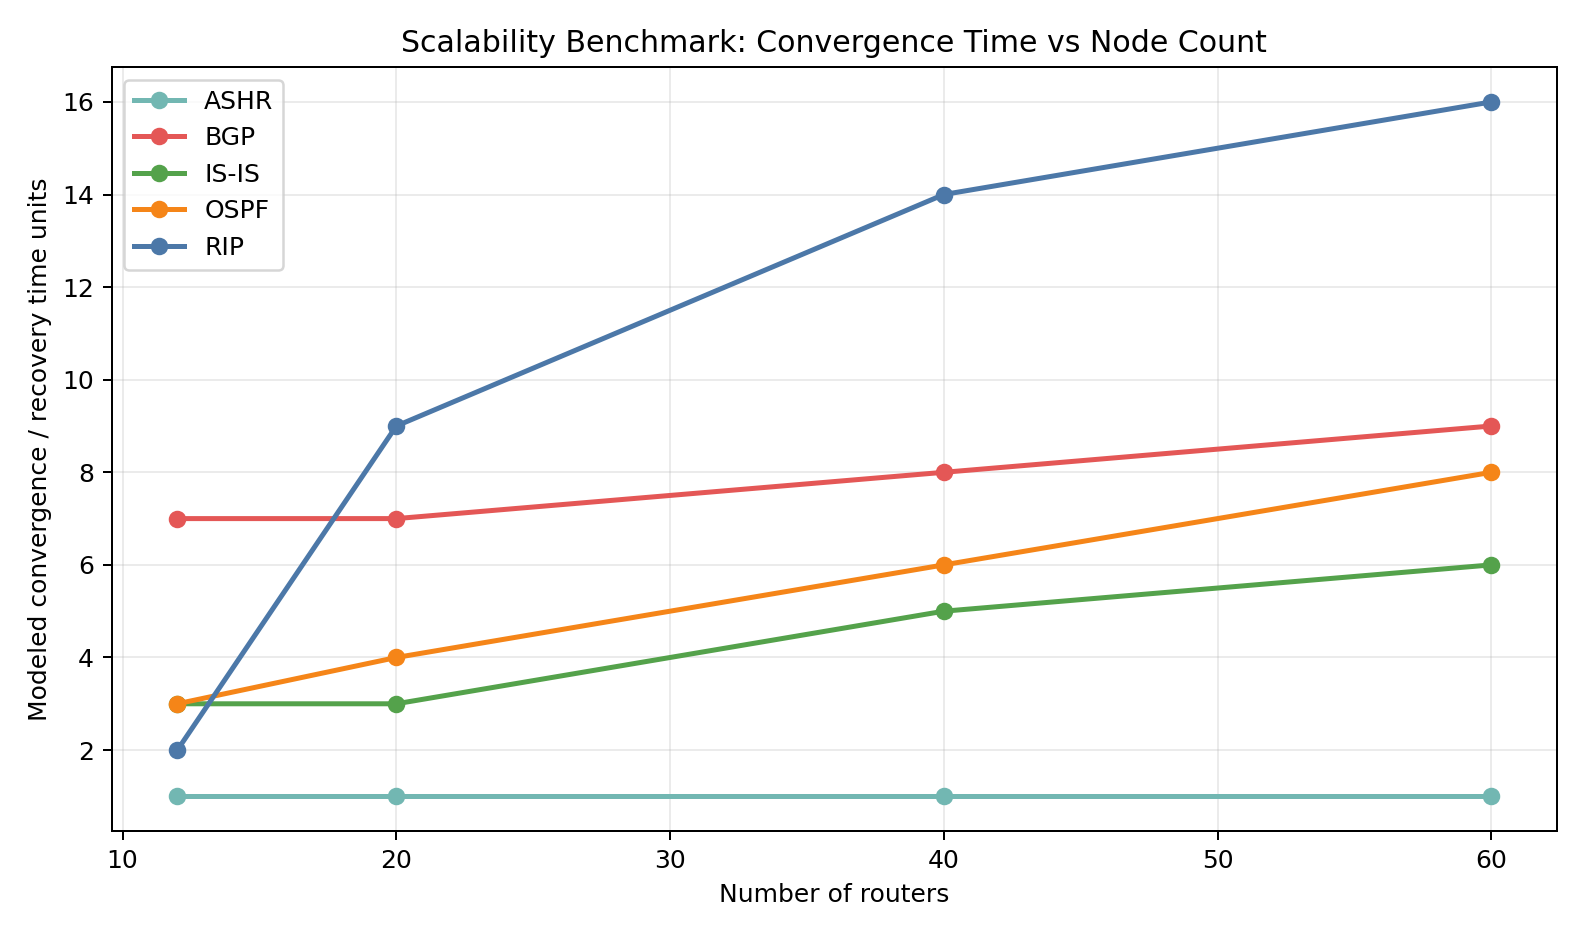
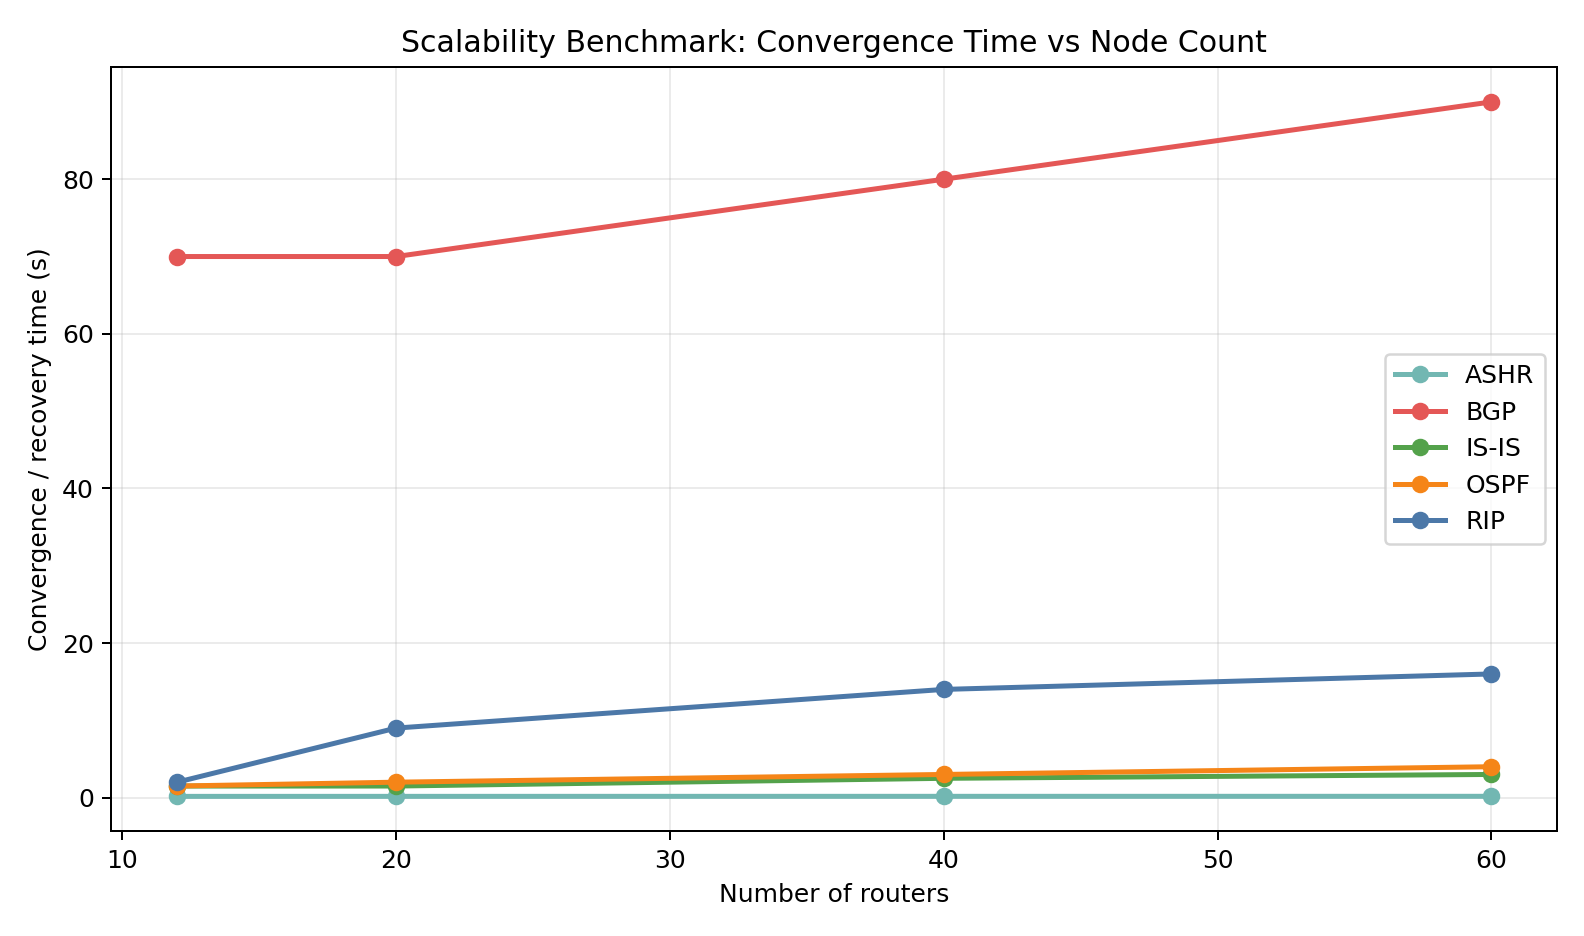
Added per-protocol-seconds-per-unit mapping

diff --git a/Simulations/src/simulation.py b/Simulations/src/simulation.py
@@ -22,6 +22,16 @@ from .utils import ensure_dir, path_to_string, set_deterministic_seed, write_lin
 PACKETS_PER_TIME_UNIT = 100
 SCALABILITY_NODE_COUNTS = [12, 20, 40, 60]
 SCALE_FACTOR = 0.5  # scale control/convergence/packet-loss metrics by this factor
+# Model time: one simulation "time unit" corresponds to this many seconds.
+TIME_PER_UNIT_S = 0.5
+# Per-protocol seconds-per-modeled-unit mapping (override default TIME_PER_UNIT_S per protocol)
+PROTOCOL_TIME_PER_UNIT_S = {
+    "ASHR": 0.15,
+    "RIP": 1.0,
+    "OSPF": 0.5,
+    "IS-IS": 0.5,
+    "BGP": 10.0,
+}
 
 
 def _summary_row(scenario: str, protocol: str, metric: str, value: object, details: str = "") -> dict[str, object]:
@@ -442,17 +452,21 @@ def run_scalability_benchmark(node_counts: list[int] | None = None) -> pd.DataFr
         )
 
         ashr_result = ashr.apply_link_failure(fail_u, fail_v, source, destination)
+        # Small, slowly-growing ASHR convergence component to model area summary processing
         ashr_control_rebuild = 1 + _spf_work_units(node_count, edge_count, divisor=170)
+        # add a fractional extra convergence cost that grows like log2(node_count)/20
+        fractional_overhead = float(log2(max(node_count, 2))) / 20.0
+        ashr_convergence_units = float(ashr_result["recovery_time_units"]) + fractional_overhead
         rows.append(
             {
                 "node_count": node_count,
                 "edge_count": edge_count,
                 "protocol": "ASHR",
                 "failed_link": failed_link,
-                "convergence_time_units": ashr_result["recovery_time_units"],
+                "convergence_time_units": ashr_convergence_units,
                 "control_plane_rebuild_units": ashr_control_rebuild,
                 "control_messages": ashr_result["control_messages"],
-                "estimated_packet_loss": ashr_result["recovery_time_units"] * PACKETS_PER_TIME_UNIT,
+                "estimated_packet_loss": ashr_convergence_units * PACKETS_PER_TIME_UNIT,
                 "details": "backup next-hop recovery; LSDB rebuild continues in control plane",
             }
         )
@@ -576,19 +590,27 @@ def _write_routing_tables(output_dir: Path, scenarios: dict[str, Any]) -> pd.Dat
 
 def _generate_plots(output_dir: Path, scenarios: dict[str, Any], scalability_df: pd.DataFrame) -> list[Path]:
     paths = [plot_topology(create_hierarchical_topology(), output_dir)]
+    # Convergence comparison: convert modeled units to seconds using TIME_PER_UNIT_S
+    # Convert each protocol's modeled units to seconds using per-protocol mapping
+    def _to_seconds_for(proto: str, value_key: str):
+        proto_u = proto.upper()
+        secs = PROTOCOL_TIME_PER_UNIT_S.get(proto_u, TIME_PER_UNIT_S)
+        val = scenarios["B"].get(value_key)
+        return val * secs if isinstance(val, (int, float)) else val
+
     paths.append(
         plot_bar(
             [
-                {"protocol": "RIP", "value": scenarios["B"]["rip_rounds"]},
-                {"protocol": "OSPF", "value": scenarios["B"]["ospf_convergence_time"]},
-                {"protocol": "IS-IS", "value": scenarios["B"]["isis_convergence_time"]},
-                {"protocol": "BGP", "value": scenarios["B"]["bgp_convergence_time"]},
-                {"protocol": "ASHR", "value": scenarios["B"]["ashr_recovery_time_units"]},
+                {"protocol": "RIP", "value": _to_seconds_for("RIP", "rip_rounds")},
+                {"protocol": "OSPF", "value": _to_seconds_for("OSPF", "ospf_convergence_time")},
+                {"protocol": "IS-IS", "value": _to_seconds_for("IS-IS", "isis_convergence_time")},
+                {"protocol": "BGP", "value": _to_seconds_for("BGP", "bgp_convergence_time")},
+                {"protocol": "ASHR", "value": _to_seconds_for("ASHR", "ashr_recovery_time_units")},
             ],
             x_key="protocol",
             y_key="value",
             title="Convergence and Recovery Comparison",
-            ylabel="Time units / update rounds",
+            ylabel="Seconds",
             output_dir=output_dir,
             filename="convergence_comparison.png",
         )
@@ -688,6 +710,17 @@ def run_full_simulation(output_dir: str | Path = "outputs") -> dict[str, Any]:
         mask = scalability_df["protocol"].astype(str).str.upper() == "ASHR"
         if any(mask):
             scalability_df.loc[mask, cols_to_scale] = scalability_df.loc[mask, cols_to_scale] * SCALE_FACTOR
+    # Add wall-clock seconds columns derived from modeled time units using per-protocol mapping
+    def _row_seconds(row):
+        proto = str(row.get("protocol", "")).upper()
+        sec_per_unit = PROTOCOL_TIME_PER_UNIT_S.get(proto, TIME_PER_UNIT_S)
+        if "convergence_time_units" in row:
+            row["convergence_time_s"] = row["convergence_time_units"] * sec_per_unit
+        if "control_plane_rebuild_units" in row:
+            row["control_plane_rebuild_s"] = row["control_plane_rebuild_units"] * sec_per_unit
+        return row
+
+    scalability_df = scalability_df.apply(_row_seconds, axis=1)
     scalability_df.to_csv(output_dir / "scalability_convergence_vs_nodes.csv", index=False)
     log.append("")
     log.append("Scalability benchmark - convergence/recovery time vs node count")

diff --git a/Simulations/src/plotting.py b/Simulations/src/plotting.py
@@ -152,7 +152,8 @@ def plot_scalability_convergence(rows: list[dict[str, object]], output_dir: str 
         group = group.sort_values("node_count")
         ax.plot(
             group["node_count"],
-            group["convergence_time_units"],
+            # prefer seconds column if available
+            group["convergence_time_s"] if "convergence_time_s" in group.columns else group["convergence_time_units"],
             marker="o",
             linewidth=2,
             label=protocol,
@@ -160,7 +161,7 @@ def plot_scalability_convergence(rows: list[dict[str, object]], output_dir: str 
         )
     ax.set_title("Scalability Benchmark: Convergence Time vs Node Count")
     ax.set_xlabel("Number of routers")
-    ax.set_ylabel("Modeled convergence / recovery time units")
+    ax.set_ylabel("Convergence / recovery time (s)")
     ax.grid(alpha=0.25)
     ax.legend()
     _save(fig, path)